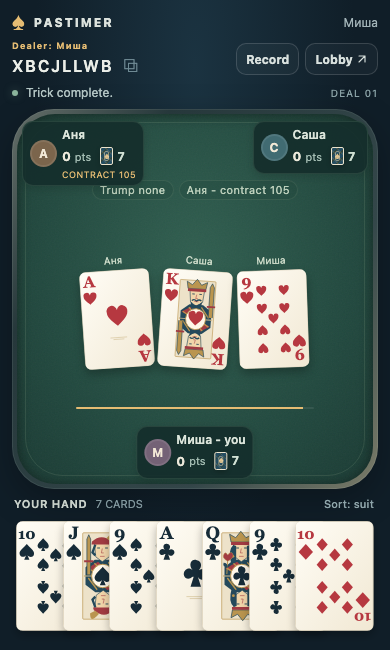
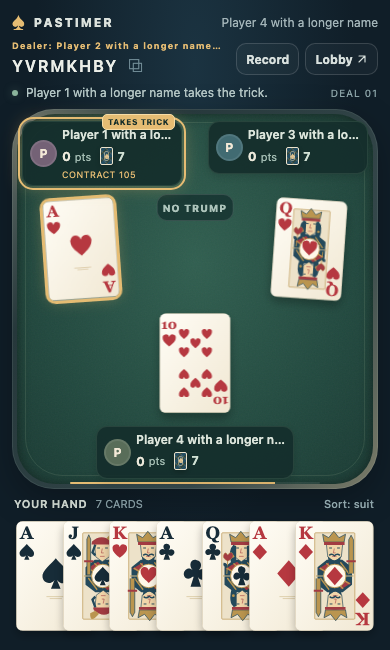
Anchor cards to players and make marriages and trick winners clear

diff --git a/public/thousand.js b/public/thousand.js
@@ -2,7 +2,7 @@ import {playingCard,cardBack,cardName} from '/cards.js';
 const $=id=>document.getElementById(id);
 const node=(tag,text='',className='')=>{const e=document.createElement(tag);e.textContent=text;if(className)e.className=className;return e;};
 const symbols={H:'♥',D:'♦',C:'♣',S:'♠'};
-let timer,formKey='',draft={},current,openPile=null,drag=null,suppressClickUntil=0;
+let timer,formKey='',draft={},current,openPile=null,drag=null,suppressClickUntil=0,ringsId=0,collectionAnimations=[];
 const read=key=>{try{return JSON.parse(localStorage.getItem(key)||'{}');}catch{return {};}};
 const deliveryKey=(room,me)=>`pastimer-deliveries:${me.id}:${room.id}:${room.table.deal}`;
 function prepare(room){const key=`${room.id}:${room.table.deal}:${room.table.phase}`;if(key!==formKey){formKey=key;draft={transfers:{},target:0,announce:{},announceVersion:room.version};}if(draft.announceVersion!==room.version){draft.announce={};draft.announceVersion=room.version;}}
@@ -14,7 +14,7 @@ export function incoming(room,me){
   return room.table.deliveries.filter(d=>d.to===me.id&&d.card&&room.table.hand.includes(d.card)&&saved[d.id]!==2).map(d=>({...d,stage:saved[d.id]??(d.public?1:0)}));
 }
 export function selectedTransfers(room){prepare(room);return Object.values(draft.transfers??{}).map(t=>t.card).filter(Boolean);}
-export function clearThousand(){cancelDrag();clearTimeout(timer);$('thousand-table').hidden=true;}
+export function clearThousand(){for(const animation of collectionAnimations)animation.cancel();collectionAnimations=[];cancelDrag();clearTimeout(timer);$('thousand-table').hidden=true;}
 export function inspectTrick(room,player){
   const pile=room.table?.piles?.find(p=>p.player===player);if(!pile?.top)return;
   const dialog=$('inspector'),content=$('inspector-content');content.replaceChildren();
@@ -82,8 +82,37 @@ export function handCard(code,{room,me,send,run,repaint}){
   }
   if(c.legalCards.includes(code))run(()=>send({type:'play',card:code,announce:c.announceCards.includes(code)&&draft.announce[code.slice(-1)]!==false}));
 }
+function marriageRings(extra=''){
+  const rings=node('span','',`marriage-rings ${extra}`.trim()),id=`ring-metal-${++ringsId}`;rings.setAttribute('aria-hidden','true');
+  rings.innerHTML=`<svg viewBox="0 0 68 48" fill="none"><defs><linearGradient id="${id}" x1="0" y1="0" x2="1" y2="1"><stop stop-color="#fff0bc"/><stop offset=".4" stop-color="#e9bb57"/><stop offset=".72" stop-color="#b37a20"/><stop offset="1" stop-color="#ffe6a0"/></linearGradient></defs><circle cx="24" cy="24" r="18" stroke="url(#${id})" stroke-width="4.5"/><path d="M62 24a18 18 0 1 1-36 0a18 18 0 1 1 36 0" stroke="#17332f" stroke-width="8"/><circle cx="44" cy="24" r="18" stroke="url(#${id})" stroke-width="4.5"/></svg>`;
+  return rings;
+}
+export function layoutTrick(){
+  if(!current||$('room').hidden)return;
+  const {room,me,now}=current,t=room.table,surface=$('table-surface').getBoundingClientRect(),marker=$('thousand-table').querySelector('.trump-marker'),area=$('thousand-table').querySelector('.trick-area');
+  const seats=[...$('seats').children].filter(e=>!e.classList.contains('seat-dealer')),own=seats.find(e=>e.classList.contains('seat-self')),others=seats.filter(e=>e!==own);
+  const top=Math.max(0,...others.map(e=>e.getBoundingClientRect().bottom-surface.top))+8,bottom=(own?own.getBoundingClientRect().top-surface.top:surface.height)-8;
+  const mr=marker&&!marker.hidden?marker.getBoundingClientRect():null,left=seats.find(e=>e.classList.contains('seat-left'))?.getBoundingClientRect(),right=seats.find(e=>e.classList.contains('seat-right'))?.getBoundingClientRect();
+  const centredAbove=mr&&left&&right&&surface.width/2-mr.width/2>=left.right-surface.left+4&&surface.width/2+mr.width/2<=right.left-surface.left-4;
+  const markerHeight=mr&&!centredAbove?mr.height:0;
+  if(marker){marker.style.left=`${surface.width/2}px`;marker.style.top=`${centredAbove?Math.min(left.top,right.top)-surface.top+3:top}px`;}
+  if(!area)return;
+  const available=bottom-top,width=Math.max(38,Math.min(84,surface.width*.2,(available-markerHeight-20)*5/7)),height=width*7/5;
+  for(const animation of collectionAnimations)animation.cancel();collectionAnimations=[];
+  for(const slot of area.querySelectorAll('.trick-play')){
+    const seat=seats.find(e=>e.dataset.player===slot.dataset.player),self=seat===own,left=seat?.classList.contains('seat-left');
+    const x=surface.width*(self ? 0.5 : left ? 0.18 : 0.82),y=self?bottom-height/2-5:top+height/2+5,angle=self?0:left?-4:4;
+    slot.style.left=`${x}px`;slot.style.top=`${y}px`;slot.style.setProperty('--played-card-width',`${width}px`);slot.style.setProperty('--owner-angle',`${angle}deg`);
+    slot.dataset.position=self?'self':left?'left':'right';
+    if(t.closeAt&&t.trickWinner&&!matchMedia('(prefers-reduced-motion: reduce)').matches){
+      const target=seats.find(e=>e.dataset.player===t.trickWinner)?.querySelector('.seat-hand')?.getBoundingClientRect(),remaining=t.closeAt-now();
+      if(target&&remaining>90){const dx=target.left+target.width/2-surface.left-x,dy=target.top+target.height/2-surface.top-y,delay=Math.max(0,remaining-800),duration=Math.min(720,remaining-80);slot.dataset.collectingTo=t.trickWinner;
+        collectionAnimations.push(slot.animate([{transform:`translate(-50%,-50%) rotate(${angle}deg)`,opacity:1},{transform:`translate(calc(-50% + ${dx}px),calc(-50% + ${dy}px)) scale(.16) rotate(0deg)`,opacity:.25}],{delay,duration,easing:'cubic-bezier(.4,0,.2,1)',fill:'forwards'}));}
+    }
+  }
+}
 export function renderThousand({room,me,send,sendPlatform,refresh,run,repaint,now}){
-  clearTimeout(timer);prepare(room);current={room,me};const t=room.table,c=t.controls;
+  clearTimeout(timer);prepare(room);current={room,me,now};const t=room.table,c=t.controls;
   if(openPile&&(openPile.room!==room.id||openPile.deal!==t.deal)){if($('inspector').open)$('inspector').close();openPile=null;}
   const name=id=>room.players.find(p=>p.id===id)?.name??id;
   const btn=(text,action,secondary=false)=>{const e=node('button',text,secondary?'secondary':'');e.type='button';e.onclick=()=>run(()=>send(action));return e;};
@@ -100,24 +129,22 @@ export function renderThousand({room,me,send,sendPlatform,refresh,run,repaint,no
   }
   const phase=ending?'auction':t.phase;
   $('room').dataset.presentation=phase;
-  const status={awaitShuffle:`${name(t.dealer)} deals next.`,auction:ending?'Auction complete.':`${t.turn===me.id?'Your turn':name(t.turn)+"'s turn"} to bid.`,stock:`${name(t.contractor)} takes the stock.`,distribution:c.recipients.length?'Give one card to each hand.':`${name(t.contractor)} is giving cards.`,preparation:`${name(t.contractor)} sets the contract.`,trick:t.turn===me.id?'Your turn - tap a card to play.':`${name(t.turn)} is playing.`,closing:'Trick complete.',finished:'The match is complete.'};
+  const status={awaitShuffle:`${name(t.dealer)} deals next.`,auction:ending?'Auction complete.':`${t.turn===me.id?'Your turn':name(t.turn)+"'s turn"} to bid.`,stock:`${name(t.contractor)} takes the stock.`,distribution:c.recipients.length?'Give one card to each hand.':`${name(t.contractor)} is giving cards.`,preparation:`${name(t.contractor)} sets the contract.`,trick:t.turn===me.id?'Your turn - tap a card to play.':`${name(t.turn)} is playing.`,closing:`${name(t.trickWinner??'')} takes the trick.`,finished:'The match is complete.'};
   $('phase').textContent=status[phase];
   $('thousand-table').hidden=false;$('thousand-table').replaceChildren();
   const hud=node('div','','table-hud'),trump=node('div','','trump-marker');trump.dataset.trump=t.trump??'none';trump.setAttribute('aria-label',t.trump?`Current trump: ${{H:'hearts',D:'diamonds',C:'clubs',S:'spades'}[t.trump]}`:'No trump');
-  if(t.trump){const rings=node('span','','marriage-rings');rings.setAttribute('aria-hidden','true');rings.innerHTML='<svg viewBox="0 0 72 46" fill="none"><ellipse cx="26" cy="23" rx="20" ry="12" transform="rotate(-36 26 23)" stroke="#e5bc73" stroke-width="4"/><ellipse cx="46" cy="23" rx="20" ry="12" transform="rotate(36 46 23)" stroke="#f4d99e" stroke-width="4"/></svg>';const mark=node('span',symbols[t.trump],`trump-suit suit-${t.trump}`);mark.setAttribute('aria-hidden','true');trump.append(rings,mark);}else trump.append(node('span','NO TRUMP'));
-  hud.append(trump);
-  hud.append(node('span',t.contractor&&!ending?`${name(t.contractor)} - contract ${t.order}`:`Bid ${t.order}`,'hud-pill'));$('thousand-table').append(hud);
+  if(t.trump){const mark=node('span',symbols[t.trump],`trump-suit suit-${t.trump}`);mark.setAttribute('aria-hidden','true');trump.append(marriageRings(),mark);}else trump.append(node('span','NO TRUMP'));
+  trump.hidden=!['trick','closing'].includes(phase)&&!t.trump;hud.append(trump);$('thousand-table').append(hud);
   const center=node('div','','table-center');
   function stock(){const box=node('div','','stock-display'),cards=node('div','','stock-row');cards.setAttribute('aria-label',t.stock?'Opened stock':'Sealed stock');for(let i=0;i<3;i++)cards.append(t.stock?playingCard(t.stock[i]):cardBack());box.append(cards,node('span',t.stock?'OPEN STOCK':'STOCK','stock-caption'));return box;}
   if(phase==='auction'){
     const bid=node('div','','bid-emblem');bid.append(node('span','CURRENT BID','bid-caption'),node('strong',String(t.order),'bid-value'));center.append(bid);
     if(!ending&&!t.stockTaken)center.append(stock());
   }else if(phase==='stock'){if(!t.stockTaken)center.append(stock());}
-  else if(['distribution','preparation'].includes(phase)){center.append(node('p',phase==='distribution'?'Choose two cards from your hand.':`Contract ${t.order}`,'table-instruction'));}
+  else if(['distribution','preparation'].includes(phase)){}
   else if(['trick','closing'].includes(phase)){
     const trick=node('div','','trick-area');trick.setAttribute('aria-label','Current trick');
-    for(const play of t.plays){const slot=node('div','','trick-play');slot.append(node('small',name(play.player)),playingCard(play.card));trick.append(slot);}
-    if(!t.plays.length)trick.append(node('p',t.turn===me.id?'Your lead.':'Waiting for the lead.','table-instruction'));
+    for(const play of t.plays){const slot=node('div','',`trick-play${play.player===t.trickLeader?' is-lead':''}${play.player===t.trickWinner?' is-winning':''}`);slot.dataset.player=play.player;slot.setAttribute('aria-label',`${name(play.player)} played ${cardName(play.card)}${play.player===t.trickLeader?' - first card':''}`);slot.append(playingCard(play.card));if(play.card===t.announcingCard){slot.classList.add('declares-marriage');slot.append(marriageRings('card-marriage'));slot.setAttribute('aria-description','Marriage announced');}trick.append(slot);}
     if(t.closeAt){const countdown=node('div','','trick-countdown');countdown.style.setProperty('--close-duration',`${Math.max(1,t.closeAt-now())}ms`);countdown.append(node('span'));trick.append(countdown);timer=setTimeout(refresh,Math.max(30,t.closeAt-now()+40));}
     center.append(trick);
   }else if(t.lastDeal){
@@ -160,7 +187,7 @@ export function renderThousand({room,me,send,sendPlatform,refresh,run,repaint,no
   const arrivals=incoming(room,me);$('incoming-zone').replaceChildren();
   for(const gift of arrivals){const button=node('button','','incoming-card');button.type='button';button.dataset.transfer=String(gift.id);button.setAttribute('aria-label',gift.stage?`Add ${cardName(gift.card)} to your hand`:'Reveal secret card');button.append(gift.stage?playingCard(gift.card):cardBack());button.onclick=()=>{const saved=read(deliveryKey(room,me));saved[gift.id]=gift.stage?2:1;localStorage.setItem(deliveryKey(room,me),JSON.stringify(saved));repaint();};$('incoming-zone').append(button);}
   if(arrivals.length){$('phase').textContent='Your card.';for(const control of $('game-actions').querySelectorAll('button,input'))control.disabled=true;}
-  if(c.announceCards.length&&!arrivals.length){const suits=[...new Set(c.announceCards.map(card=>card.slice(-1)))];for(const suit of suits){const toggle=node('button',`Announce ${symbols[suit]} +${{H:100,D:80,C:60,S:40}[suit]}`,'secondary marriage-toggle');toggle.setAttribute('aria-pressed',String(draft.announce[suit]!==false));toggle.onclick=()=>{draft.announce[suit]=draft.announce[suit]===false;repaint();};$('game-actions').append(toggle);}}
+  if(c.announceCards.length&&!arrivals.length){const suits=[...new Set(c.announceCards.map(card=>card.slice(-1)))];for(const suit of suits){const toggle=node('button',`${symbols[suit]} +${{H:100,D:80,C:60,S:40}[suit]}`,'secondary marriage-toggle');toggle.setAttribute('aria-label',`Announce ${symbols[suit]} +${{H:100,D:80,C:60,S:40}[suit]}`);toggle.setAttribute('aria-pressed',String(draft.announce[suit]!==false));toggle.onclick=()=>{draft.announce[suit]=draft.announce[suit]===false;repaint();};$('game-actions').append(toggle);}}
   for(const card of $('hand').children){const announce=c.announceCards.includes(card.dataset.card)&&draft.announce[card.dataset.card.slice(-1)]!==false;card.classList.toggle('announces-marriage',announce);if(announce)card.setAttribute('aria-description','Announces the marriage and changes trump');}
   $('audit').disabled=t.auditDeals===0;$('audit').textContent=t.auditDeals?'Download audit':'No completed deal yet';
 }

diff --git a/public/app.js b/public/app.js
@@ -1,4 +1,4 @@
-import {renderThousand,clearThousand,handCard,incoming,selectedTransfers,inspectTrick,bindDistributionDrag} from '/thousand.js';
+import {renderThousand,clearThousand,handCard,incoming,selectedTransfers,inspectTrick,bindDistributionDrag,layoutTrick} from '/thousand.js';
 import {playingCard,cardBack,sortedHand,layoutHand} from '/cards.js';
 const $ = id => document.getElementById(id);
 let me, room, busy = false, refreshing = false, serverOffset=0;
@@ -10,7 +10,7 @@ const pendingKey=()=>`pastimer-pending:${me.id}`;
 function setPending(value){pending=value;if(me){if(value)localStorage.setItem(pendingKey(),JSON.stringify(value));else localStorage.removeItem(pendingKey());}sessionStorage.removeItem('pending-command');}
 function rememberRoom(code){localStorage.setItem(roomKey(),code);sessionStorage.setItem('room',code);$('resume-table').dataset.code=code;$('resume-table').textContent=`Return to table ${code}`;}
 function repaint(){if(room)render(room);}
-function viewport(){const tg=window.Telegram?.WebApp;document.documentElement.style.setProperty('--app-height',`${Math.min(innerHeight,tg?.viewportHeight||innerHeight,visualViewport?.height||innerHeight)}px`);layoutHand();}
+function viewport(){const tg=window.Telegram?.WebApp;document.documentElement.style.setProperty('--app-height',`${Math.min(innerHeight,tg?.viewportHeight||innerHeight,visualViewport?.height||innerHeight)}px`);layoutHand();layoutTrick();}
 async function api(path, body) {
   const response = await fetch(`/api${path}`, { ...(body === undefined ? {} : {method:'POST', headers:{'Content-Type':'application/json'}, body:JSON.stringify(body)}) });
   const value = await response.json();
@@ -52,13 +52,13 @@ function renderSeats(){
     const seat=room.table?.seats?.find(s=>s.id===p.id),isMe=p.id===me.id,isTurn=room.table?.turn===p.id,pile=room.table?.piles?.find(v=>v.player===p.id);
     let position=isMe?'seat-self':activeOthers.indexOf(p)===0?'seat-left':activeOthers.indexOf(p)===1?'seat-right':'seat-self';
     if(p.id===inactive)position='seat-dealer';
-    const box=element('div','',`seat ${position}${isTurn?' is-turn':''}${pile?.top?' has-trick':''}`);box.dataset.player=p.id;if(pile?.top){box.title=`Inspect the last trick won by ${p.name}`;box.onclick=e=>{if(!box.dataset.recipient&&!e.target.closest('.seat-hand'))inspectTrick(room,p.id);};}
+    const box=element('div','',`seat ${position}${isTurn?' is-turn':''}${pile?.top?' has-trick':''}${room.table?.trickLeader===p.id?' is-leader':''}${room.table?.trickWinner===p.id?' is-taking':''}`);box.dataset.player=p.id;if(pile?.top){box.title=`Inspect the last trick won by ${p.name}`;box.onclick=e=>{if(!box.dataset.recipient&&!e.target.closest('.seat-hand'))inspectTrick(room,p.id);};}
     const avatar=element('span',room.computers?.includes(p.id)?'C':p.name.trim().slice(0,1).toUpperCase(),'avatar');avatar.style.setProperty('--avatar-color',colors[index%colors.length]);
     const info=element('div','','seat-info');info.append(element('div',p.name+(isMe?' - you':''),'seat-name'));
     const score=element('div','','seat-score');score.append(element('strong',String(seat?.score??room.scores[p.id]??0)),element('span','pts'));
     if(seat){const hand=element('button','','seat-hand');hand.type='button';hand.disabled=!pile?.top;hand.setAttribute('aria-label',`Last trick won by ${p.name}`);hand.dataset.pilePlayer=p.id;hand.append(cardBack(),element('span',String(seat.count)));if(pile?.top)hand.append(element('span','↗','pile-available'));hand.onclick=()=>inspectTrick(room,p.id);score.append(hand);}
     if(seat?.sticks)score.append(element('span',`${seat.sticks} sticks`,'stick-marks'));
-    info.append(score);const role=seat?.onBarrel?'BARREL':seat?.role==='dealer'?'DEALER':seat?.role==='contractor'?`CONTRACT ${room.table.order}`:isTurn?'TURN':'';if(role)info.append(element('span',role,'seat-role'));box.append(avatar,info);return box;
+    info.append(score);const contract=room.table?.contractor===p.id?`CONTRACT ${room.table.order}`:'',role=[seat?.onBarrel?'BARREL':'',contract||(seat?.role==='dealer'?'DEALER':isTurn&&!room.table?.trickLeader?'TURN':'')].filter(Boolean).join(' / ');if(role)info.append(element('span',role,'seat-role'));box.append(avatar,info);if(room.table?.trickWinner===p.id)box.append(element('span','TAKES TRICK','seat-activity'));else if(room.table?.trickLeader===p.id)box.append(element('span','LEAD','seat-activity'));return box;
   }));
 }
 function render(next) {
@@ -94,7 +94,7 @@ function render(next) {
     for(const card of $('hand').children)card.disabled=!(room.table?.actions??[]).some(a=>a.input==='card');
     $('thousand-table').hidden=false;const center=element('div','','table-center');const logo=element('div','♠','bid-emblem');logo.style.cssText='font:45px Georgia;color:#d8c08d';center.append(logo,element('p',room.phase==='lobby'?`${room.players.length} friends at the table`:'The next hand awaits.','table-instruction'));$('thousand-table').append(center);
   }
-  layoutHand();saveReceipt();
+  layoutHand();layoutTrick();saveReceipt();
 }
 function saveReceipt() {
   // Local receipts provide an anchor outside the server database. Export to preserve across devices.

diff --git a/public/style.css b/public/style.css
@@ -185,3 +185,24 @@ dialog::backdrop{background:#07121acc;backdrop-filter:blur(3px)}
 #room .table-hud>.hud-pill{min-width:0;overflow:hidden;white-space:nowrap;text-overflow:ellipsis}
 #room .hand .card.announces-marriage{box-shadow:0 0 0 2px var(--gold),0 0 12px #e5bc7380}
 @media(max-height:500px){.marriage-rings svg{width:44px;height:29px}#room .trump-suit{font-size:31px}#room .trump-marker{min-height:30px}}
+
+/* Trick information is anchored to the owning seats, with one central trump. */
+#room #thousand-table,#room .table-center{position:static}
+#room .table-hud{position:static;min-height:0;height:0;margin:0}
+#room .trump-marker{position:absolute;transform:translateX(-50%);z-index:4;pointer-events:none}
+.marriage-rings svg{width:62px;height:44px;filter:drop-shadow(0 1px 2px #0008)}
+#room .trick-area{position:absolute;inset:0;width:100%;height:100%;max-height:none;display:block;pointer-events:none}
+#room .trick-play{position:absolute;margin:0;transform:translate(-50%,-50%) rotate(var(--owner-angle,0deg));z-index:3}
+#room .trick-play .playing-card{width:var(--played-card-width,68px);height:auto}
+#room .trick-play.is-lead>.playing-card{box-shadow:0 0 0 2px #8ac6dc,0 4px 10px #0005}
+#room .trick-play.is-winning>.playing-card{box-shadow:0 0 0 3px var(--gold),0 0 16px #e5bc7360}
+#room .card-marriage{position:absolute;left:50%;top:54%;transform:translate(-50%,-50%);width:94%;padding:2px;background:#17332fe8;border-radius:9px;filter:drop-shadow(0 2px 3px #0007)}
+#room .card-marriage svg{width:100%;height:auto}
+#room .seat.is-leader{outline:2px solid #8ac6dc;outline-offset:2px}
+#room .seat.is-taking{outline:2px solid var(--gold);outline-offset:2px;animation:winner-glow .75s ease-in-out infinite alternate}
+.seat-activity{position:absolute;right:6px;top:-8px;border-radius:5px;padding:2px 5px;background:#244c5a;color:#e3f6ff;border:1px solid #8ac6dc;font-size:8px;font-weight:800;letter-spacing:.4px;white-space:nowrap}
+.is-taking .seat-activity{background:#e5bc73;border-color:#f7dca5;color:#18312b}
+@keyframes winner-glow{to{box-shadow:0 0 18px #e5bc7380}}
+@media(max-height:600px){#room .seat-self{max-width:94%}#room .seat-self .avatar{display:none}#room .seat-self .seat-info{display:flex;align-items:center;gap:5px}#room .seat-self .seat-name{max-width:80px}#room .seat-self .seat-score{margin:0}#room .seat-self .seat-role{display:inline;margin:0}.marriage-rings svg{width:49px;height:35px}#room .trump-marker{min-height:29px}#room .trump-suit{font-size:30px}}
+
+@media(max-height:500px) and (min-aspect-ratio:1/1){#room .seat-left,#room .seat-right{max-width:32%;padding:4px 5px}#room .seat-left .avatar,#room .seat-right .avatar{display:none}#room .seat-info{min-width:0}#room .seat-name{font-size:10px}#room .seat-score{flex-wrap:wrap;row-gap:0}}

diff --git a/src/thousand/view.rs b/src/thousand/view.rs
@@ -19,6 +19,9 @@ pub struct View {
     pub piles: Vec<PileView>,
     pub plays: Vec<Play>,
     pub close_at: Option<i64>,
+    pub trick_leader: Option<String>,
+    pub trick_winner: Option<String>,
+    pub announcing_card: Option<Card>,
     pub server_now: i64,
     pub controls: Controls,
     pub transfers: Vec<Transfer>,
@@ -135,10 +138,28 @@ impl State {
             Phase::Closing { trick, close_at } => (trick.plays.clone(), Some(*close_at)),
             _ => (vec![], None),
         };
+        let trick_leader = plays.first().map(|p| p.player.clone()).or_else(|| {
+            matches!(self.phase, Phase::Trick { .. })
+                .then(|| turn.clone())
+                .flatten()
+        });
+        let trick_winner = match &self.phase {
+            Phase::Closing { trick, .. } => Some(trick.winner.clone()),
+            _ => None,
+        };
+        let number = self.tricks.len() + 1;
+        let announcing_card = plays
+            .first()
+            .filter(|play| {
+                self.marriages
+                    .iter()
+                    .any(|m| usize::from(m.trick) == number && m.player == play.player)
+            })
+            .map(|play| play.card.clone());
         View{kind:"thousand",phase:self.phase.name(),deal:self.deal,dealer:players.get(self.dealer).map(|p|p.id.clone()).unwrap_or_default(),contractor:self.contractor.and_then(|p|players.get(p)).map(|p|p.id.clone()),order:self.order,compulsory:self.compulsory,
             turn,hand:self.hands.get(viewer).cloned().unwrap_or_default(),stock:self.stock_visible.then(||self.stock.clone()),stock_taken:self.stock_taken,trump:self.trump,
             seats:players.iter().enumerate().map(|(i,p)|SeatView{player:p.clone(),count:self.hands.get(&p.id).map_or(0,Vec::len),score:self.ledger.get(&p.id),sticks:self.sticks.get(&p.id).copied().unwrap_or(0),on_barrel:self.ledger.get(&p.id)==i64::from(self.settings.barrel_threshold),round_points:self.raw.get(&p.id).copied().unwrap_or(0),role:if players.len()==4&&i==self.dealer{"dealer"}else if self.contractor==Some(i){"contractor"}else{"player"}}).collect(),
-            piles:players.iter().map(|p|PileView{player:p.id.clone(),count:self.tricks.iter().filter(|t|t.winner==p.id).count(),top:self.tricks.iter().rev().find(|t|t.winner==p.id).cloned()}).collect(),plays,close_at,server_now:now,controls,
+            piles:players.iter().map(|p|PileView{player:p.id.clone(),count:self.tricks.iter().filter(|t|t.winner==p.id).count(),top:self.tricks.iter().rev().find(|t|t.winner==p.id).cloned()}).collect(),plays,close_at,trick_leader,trick_winner,announcing_card,server_now:now,controls,
             transfers:self.movements.iter().filter_map(|m|{if let (Zone::Hand{player:from},Zone::Hand{player:to})=(&m.from,&m.to)&& (m.public||from==viewer||to==viewer){return Some(Transfer{player:to.clone(),card:m.card.clone(),public:m.public})}None}).collect(),
             deliveries:self.movements.iter().enumerate().filter_map(|(id,m)|{if let (Zone::Hand{player:from},Zone::Hand{player:to})=(&m.from,&m.to){Some(Delivery{id,from:from.clone(),to:to.clone(),public:m.public,card:(m.public||from==viewer||to==viewer).then(||m.card.clone())})}else{None}}).collect(),
             played_cards:self.movements.iter().filter(|m|matches!(m.to,Zone::Table{..})).map(|m|m.card.clone()).collect(),

diff --git a/tests/thousand.rs b/tests/thousand.rs
@@ -138,11 +138,21 @@ async fn http_engine_plays_and_verifies_a_deal_without_acknowledgements() -> Tes
             )
             .await?;
             if room["table"]["phase"] == "closing" {
+                assert_eq!(
+                    room["table"]["trickLeader"],
+                    room["table"]["plays"][0]["player"]
+                );
+                let winner = room["table"]["trickWinner"].clone();
+                assert!(winner.is_string());
                 let close_at = room["table"]["closeAt"].as_i64().ok_or("deadline")?;
                 e.advance_at(&code, "p0", close_at - 1).await?;
                 assert_eq!(e.read(&code, "p0").await?["table"]["phase"], "closing");
                 e.advance_at(&code, "p0", close_at).await?;
                 room = e.read(&code, "p0").await?;
+                assert!(room["table"]["trickWinner"].is_null());
+                if room["table"]["phase"] == "trick" {
+                    assert_eq!(room["table"]["trickLeader"], winner);
+                }
             }
         }
         assert_eq!(room["table"]["phase"], "awaitShuffle");

diff --git a/src/thousand/tests.rs b/src/thousand/tests.rs
@@ -643,6 +643,8 @@ fn marriage_is_optional_and_counts_when_announcing_trick_is_lost() -> TestResult
         turn: 1,
         plays: vec![],
     };
+    assert_eq!(s.view("p0", &p, 0).trick_leader.as_deref(), Some("p1"));
+    assert_eq!(s.view("p0", &p, 0).trick_winner, None);
     let silent = apply(
         s.clone(),
         "p1",
@@ -687,6 +689,11 @@ fn marriage_is_optional_and_counts_when_announcing_trick_is_lost() -> TestResult
     assert_eq!(trick.winner, "p2");
     assert_eq!(s.raw["p1"], 100);
     assert_eq!(s.trump, Some(Suit::H));
+    let view = s.view("p0", &p, 0);
+    assert_eq!(view.trick_leader.as_deref(), Some("p1"));
+    assert_eq!(view.trick_winner.as_deref(), Some("p2"));
+    assert_eq!(view.announcing_card, Some("QH".parse()?));
+    assert_eq!(silent.view("p0", &p, 0).announcing_card, None);
     Ok(())
 }
 #[test]

diff --git a/src/computer.rs b/src/computer.rs
@@ -191,6 +191,9 @@ mod tests {
     }
     fn view(hand: Vec<Card>) -> View {
         View {
+            trick_leader: None,
+            trick_winner: None,
+            announcing_card: None,
             kind: "thousand",
             phase: "trick",
             deal: 1,

diff --git a/README.md b/README.md
@@ -35,7 +35,7 @@ The shared interface uses a felt card table, illustrated vector playing cards an
 
 For testing without recruiting a full table, choose **Computer seats** when creating a Thousand room. With three seats, **2 computers - solo** lets you play alone; **1 computer - 2 people** needs you and one friend. Four-seat tables can also include computers. They calculate conservative bids from guaranteed winning leads and an attainable marriage, retain those cards when distributing, cash winners before declaring trump, and try to win playable tricks. They use only their own view and public played cards. Turns are paced at three seconds so each reaction is visible. When a computer is the dealer, press **Ask computer to deal**; completed results stay available until someone starts the next deal.
 
-The table fits the visible Mini App screen. Tap a legal card to play it immediately; an eligible marriage is announced by default when you lead its king or queen. Switch its option off first to play without announcing. The current trump is marked prominently by gold rings and its suit. Drag distribution cards from your hand onto the respective player hands. Tap each staged card to turn it face up (open) or face down (secret), or drag it back to cancel. Press Give two cards on the table once both are ready. A secret incoming card is revealed with one tap and sorted into your hand with the next. Opened stock is enlarged and disappears once taken. Tap a player's seat or hand/count indicator to inspect their last won trick. Auction speech bubbles retain the latest calls until the auction ends, then give way to the contractor and contract. Closing and reopening restores your table through your authenticated identity, even in a fresh browser window.
+The table fits the visible Mini App screen. Tap a legal card to play it immediately; an eligible marriage is announced by default when you lead its king or queen. Switch its option off first to play without announcing. The current trump sits at the top centre as two equal circular gold rings and its suit. A marriage shows large rings on the announcing card. Played cards sit by their owners; the leader stays highlighted and a completed trick flies into the winning hand. Contract information appears only at its owner's seat. Drag distribution cards from your hand onto the respective player hands. Tap each staged card to turn it face up (open) or face down (secret), or drag it back to cancel. Press Give two cards on the table once both are ready. A secret incoming card is revealed with one tap and sorted into your hand with the next. Opened stock is enlarged and disappears once taken. Tap a player's seat or hand/count indicator to inspect their last won trick. Auction speech bubbles retain the latest calls until the auction ends, then give way to the contractor and contract. Closing and reopening restores your table through your authenticated identity, even in a fresh browser window.
 
 `DEV_AUTH=1` allows loopback-only login and is forbidden in production. Every local sign-in creates a new identity; the cookie preserves it for one day. `.env.example` documents configuration; environment files are not automatically loaded. `PASTIMER_ENV=production` enables production behavior; the previous `NODE_ENV=production` spelling is also accepted for compatibility. Supply real secrets through the deployment's environment, never a committed file.
 

diff --git a/AGENTS.md b/AGENTS.md
@@ -8,8 +8,8 @@ Read [README.md](README.md) and [docs/handoff.md](docs/handoff.md) when starting
 - Build common multiplayer, persistence, deck, audit, scoring and UI facilities for Telegram card games. The first game is the owner's variant of Thousand / тысяча.
 - Treat [English rules](docs/thousand-rules.md) and [Russian rules](docs/thousand-rules.ru.md) as the agreed specification. Keep both synchronized if rules change; ask about genuine new ambiguities rather than silently adopting another Thousand variant. Keep the rules files about the rules.
 - Thousand publishes the shuffled deck hash and deals immediately; players do not acknowledge it. The legacy high-card demo still uses acknowledgements.
-- After three seconds a completed trick joins its winner's pile. Players can inspect the most recent trick won by **each player**, including themselves, throughout the current deal.
-- Normal play fits the Mini App viewport. Cards play on one tap; eligible marriages are selected by default when leading a legal king/queen. Keep the voluntary opt-out before playing. Show the current trump prominently with crossed gold rings and the suit. Inspect last won tricks from the seat/hand display, without a separate pile row.
+- Place played cards by their owners, keep the trick leader highlighted, and visibly highlight the winner. Animate the three cards into the winning hand during the end of the existing three-second closure window, with a static reduced-motion alternative. After three seconds a completed trick joins its winner's pile. Players can inspect the most recent trick won by **each player**, including themselves, throughout the current deal.
+- Normal play fits the Mini App viewport. Cards play on one tap; eligible marriages are selected by default when leading a legal king/queen. Keep the voluntary opt-out before playing. Show the current trump at the top centre with two equal circular gold rings viewed from above and the suit. Put large rings on the announcing card. Show the contract only under its owner's hand/seat. Inspect last won tricks from the seat/hand display, without a separate pile row.
 - Auction calls are paced three seconds apart and shown in seat speech bubbles. Keep each player's latest call until the auction ends, then show the contractor and contract. The log retains every call.
 - Drag stock transfers from the hand onto the recipient seat/hand, with touch and mouse support. Tap a staged card to turn it face up (open) or face down (secret); drag it back to cancel. Keep one atomic Give action on the table and no separate lower transfer panel. Staged cards leave the visible hand/count until returned or committed. Recipients see open cards face up and secret cards face down; reveal a secret card, then tap again to sort it into the hand. Use the incoming card highlight without visible sender/tap instructions, and suppress old receipts after play begins. Hand counts come from the actual server hand. Taken stock disappears from the table.
 - Computer bids use conservative guaranteed tricks/points and an attainable marriage; the policy sees only its own view and public played cards. Preserve the winning-card/announcement plan when distributing and playing.

diff --git a/docs/screenshots/README.md b/docs/screenshots/README.md
@@ -11,7 +11,8 @@ Captured as viewport images at a 390 x 650 CSS-pixel viewport with a 1x device s
 | A completed trick before its three-second collection | [03-playing-a-trick.png](03-playing-a-trick.png) |
 | Last captured trick opened from a player seat | [04-collected-tricks.png](04-collected-tricks.png) |
 | Highlighted secret receipt with no instructional text | [05-incoming-card.png](05-incoming-card.png) |
-| Prominent hearts trump with crossed gold rings (UI fixture) | [06-hearts-trump.png](06-hearts-trump.png) |
+| Top-view rings, marriage card and centred trump (UI fixture) | [06-hearts-trump.png](06-hearts-trump.png) |
+| Cards by owner, leader and trick winner highlighted (UI fixture) | [07-trick-owners.png](07-trick-owners.png) |
 
 Regenerate from the repository root after installing the optional browser dependencies described in the [handoff](../handoff.md):
 
